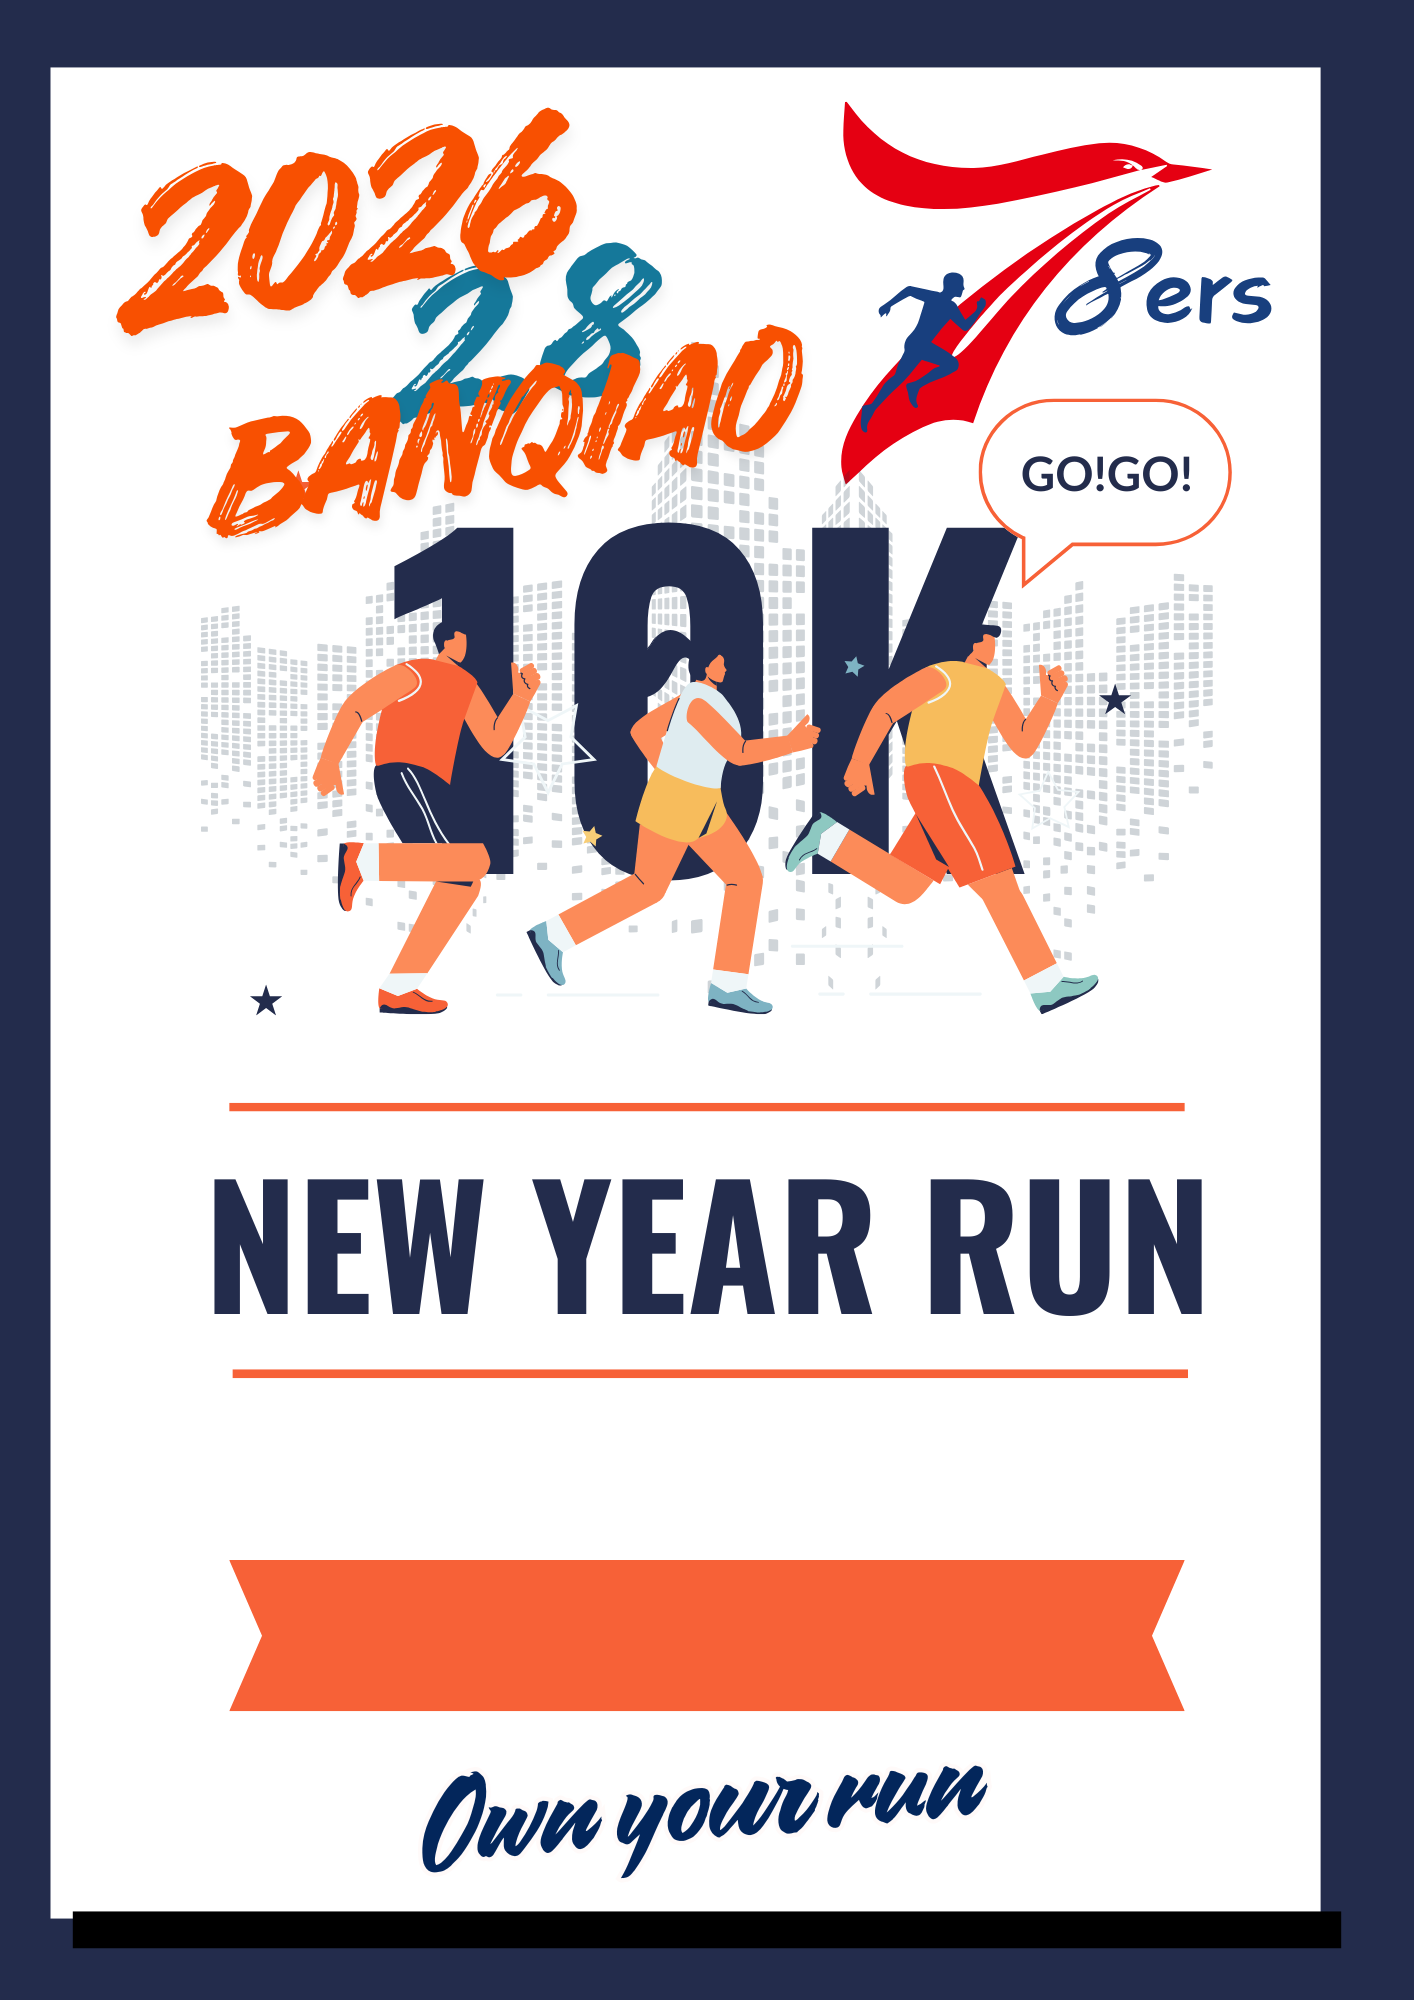
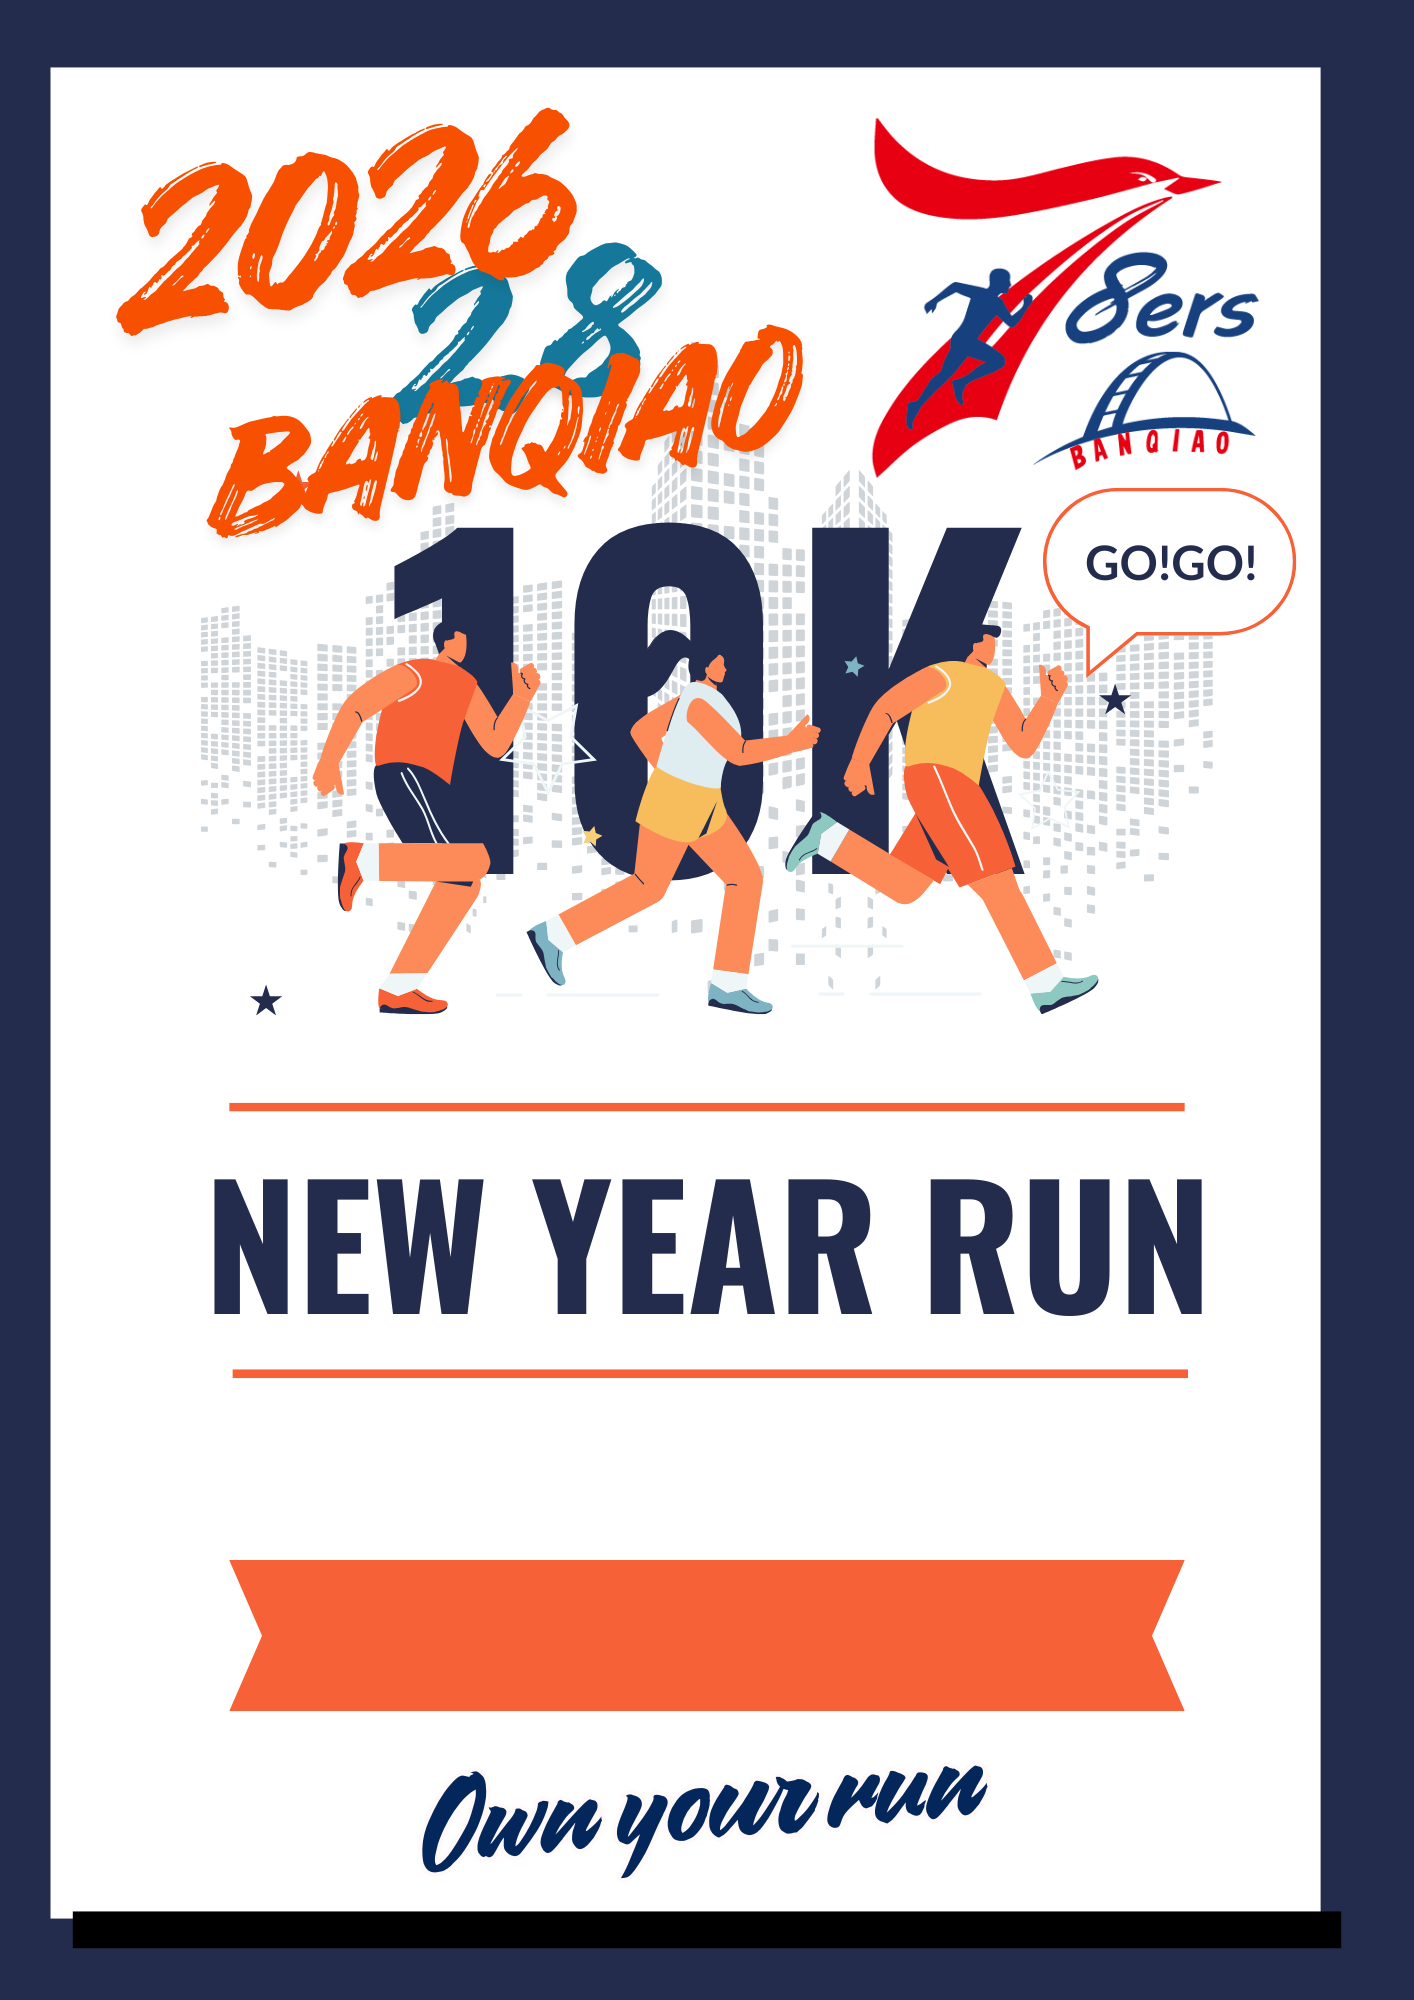
Add files via upload

Changed region(s): [[0.5912, 0.031, 0.9024, 0.341]]

diff --git a/index.html b/index.html
@@ -60,20 +60,19 @@
             border: 1px solid #ccc;
             box-shadow: 0 0 10px rgba(0,0,0,0.1);
             margin-bottom: 10px;
-            display: none; /* 預設隱藏 */
+            display: none;
         }
 
-        /* 這是備用的 Canvas 顯示區 */
         #certificateCanvas {
             max-width: 100%;
             height: auto;
             border: 1px solid #ccc;
-            display: none; /* 預設隱藏 */
+            display: none;
             margin: 0 auto;
         }
 
         .download-btn {
-            display: none; /* 預設隱藏 */
+            display: none;
             text-decoration: none;
             background-color: #27ae60;
             color: white;
@@ -102,6 +101,14 @@
         </select>
     </div>
 
+    <div class="input-group" style="border-top: 1px dashed #eee; padding-top: 15px;">
+        <label style="color: #c0392b;">🧧 選擇證書風格 (Style)：</label>
+        <select id="certificateStyle">
+            <option value="original">經典原版 (Original Blue)</option>
+            <option value="cny">🧨 新春賀歲版 (Lunar New Year)</option>
+        </select>
+    </div>
+
     <div class="input-group">
         <label>選手姓名 (Name)：</label>
         <input type="text" id="runnerName" placeholder="例如：CHEN, DA-MING" value="Chen, Da-Ming">
@@ -118,13 +125,9 @@
 
     <div id="resultArea">
         <h3>✨ 您的證書</h3>
-        
         <img id="previewImage" alt="證書預覽">
-        
         <canvas id="certificateCanvas"></canvas>
-        
         <a id="downloadLink" class="download-btn" href="#">下載證書 (Download)</a>
-        
         <div id="saveTips" class="tips">
             ⚠ <b>提示：</b><br>
             若無法點擊下載，請直接對著上方的圖片<br>
@@ -136,6 +139,7 @@
 <script>
     function generateCertificate() {
         const category = document.getElementById('raceCategory').value;
+        const style = document.getElementById('certificateStyle').value; // 取得風格
         const name = document.getElementById('runnerName').value;
         const time = document.getElementById('runnerTime').value;
         
@@ -165,69 +169,74 @@
         const img = new Image();
 
         // -----------------------------------------------------
-        // 設定圖片路徑 (對應你資料夾內的檔名)
+        // 核心邏輯：根據「組別」和「風格」決定圖片與文字樣式
         // -----------------------------------------------------
-        if (category === '5k') {
-            img.src = 'bg_5k.jpg';   
+        let textColor = '#1a2b49'; // 預設文字顏色 (深藍)
+        let nameYRatio = 0.72;     // 預設姓名垂直位置 (72%)
+        let timeYRatio = 0.82;     // 預設時間垂直位置 (82%)
+
+        if (style === 'cny') {
+            // --- 新春賀歲版 ---
+            if (category === '5k') {
+                img.src = 'bg_5k_cny.jpg';
+            } else {
+                img.src = 'bg_10k_cny.jpg';
+            }
+            // 調整樣式以配合紅色背景和匾額
+            textColor = '#f1c40f'; // 改成金色
+            nameYRatio = 0.805;    // 移到匾額上半部
+            timeYRatio = 0.875;    // 移到匾額下半部
+
         } else {
-            img.src = 'bg_10k.jpg';  
+            // --- 經典原版 ---
+            if (category === '5k') {
+                img.src = 'bg_5k.jpg';
+            } else {
+                img.src = 'bg_10k.jpg';
+            }
+            // 使用預設樣式 (深藍色, 原本位置)
         }
 
         img.onload = function() {
-            // 1. 設定畫布尺寸
             canvas.width = img.width;
             canvas.height = img.height;
-
-            // 2. 畫底圖
             ctx.drawImage(img, 0, 0);
 
-            // 3. 設定文字參數
             const centerX = canvas.width / 2;
 
-            // --- 繪製姓名 (深藍色, 粗體) ---
+            // --- 繪製姓名 ---
             ctx.font = 'bold 80px "Microsoft JhengHei", "Arial Black"';
-            ctx.fillStyle = '#1a2b49'; 
+            ctx.fillStyle = textColor; // 使用動態決定的顏色
             ctx.textAlign = 'center';
-            // 原本是 0.72，改成 0.74 讓它往下移一點
-            ctx.fillText(name.toUpperCase(), centerX, canvas.height * 0.74); 
+            ctx.fillText(name.toUpperCase(), centerX, canvas.height * nameYRatio); 
 
-            // --- 繪製時間 (Impact 字體, 深藍色) ---
+            // --- 繪製時間 ---
             ctx.font = 'bold 70px "Impact", "Arial Narrow", sans-serif';
-            ctx.fillStyle = '#1a2b49';
-            // 原本是 0.82，改成 0.835 讓它往下移到絲帶中間
-            ctx.fillText(time, centerX, canvas.height * 0.835);
+            ctx.fillStyle = textColor; // 使用動態決定的顏色
+            ctx.fillText(time, centerX, canvas.height * timeYRatio);
 
             loadingMsg.style.display = 'none';
             resultArea.style.display = 'block';
 
-            // 4. 嘗試產生圖片下載連結
             try {
-                // 嘗試將 Canvas 轉為圖片網址
                 const dataURL = canvas.toDataURL('image/jpeg', 0.9);
-                
-                // 成功：顯示圖片標籤
                 previewImg.src = dataURL;
                 previewImg.style.display = 'block';
-                
-                // 設定下載按鈕
                 downloadLink.href = dataURL;
-                downloadLink.download = `Certificate_${name}.jpg`;
+                downloadLink.download = `Certificate_${style}_${name}.jpg`; // 檔名加入風格
                 downloadLink.style.display = 'inline-block';
-                
             } catch (e) {
-                // ★★★ 如果報錯 (通常是本機安全性限制)，執行這裡 ★★★
                 console.log("本機模式：切換為 Canvas 直接顯示");
-                
-                // 顯示原始畫布
                 canvas.style.display = 'block';
-                // 顯示提示文字
                 saveTips.style.display = 'block';
             }
         };
 
         img.onerror = function() {
             loadingMsg.style.display = 'none';
-            errorMsg.innerText = "❌ 找不到底圖檔案！請確認資料夾內是否有 bg_5k.jpg 和 bg_10k.jpg";
+            // 顯示更詳細的錯誤訊息
+            let missingFile = (style === 'cny') ? `bg_${category}_cny.jpg` : `bg_${category}.jpg`;
+            errorMsg.innerHTML = `❌ 找不到底圖檔案！<br>請確認資料夾內是否有 <b>${missingFile}</b>`;
             errorMsg.style.display = 'block';
         };
     }
